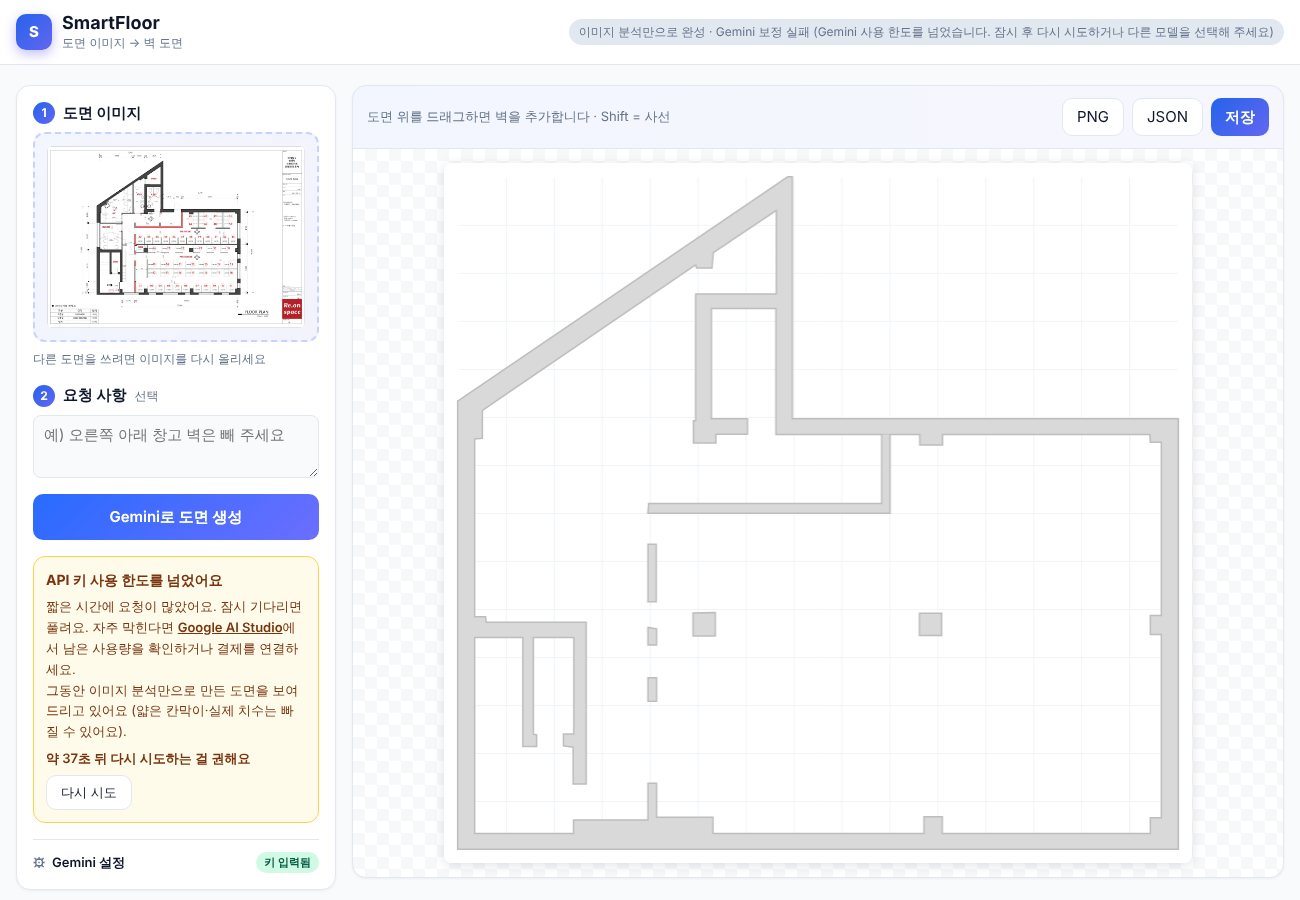
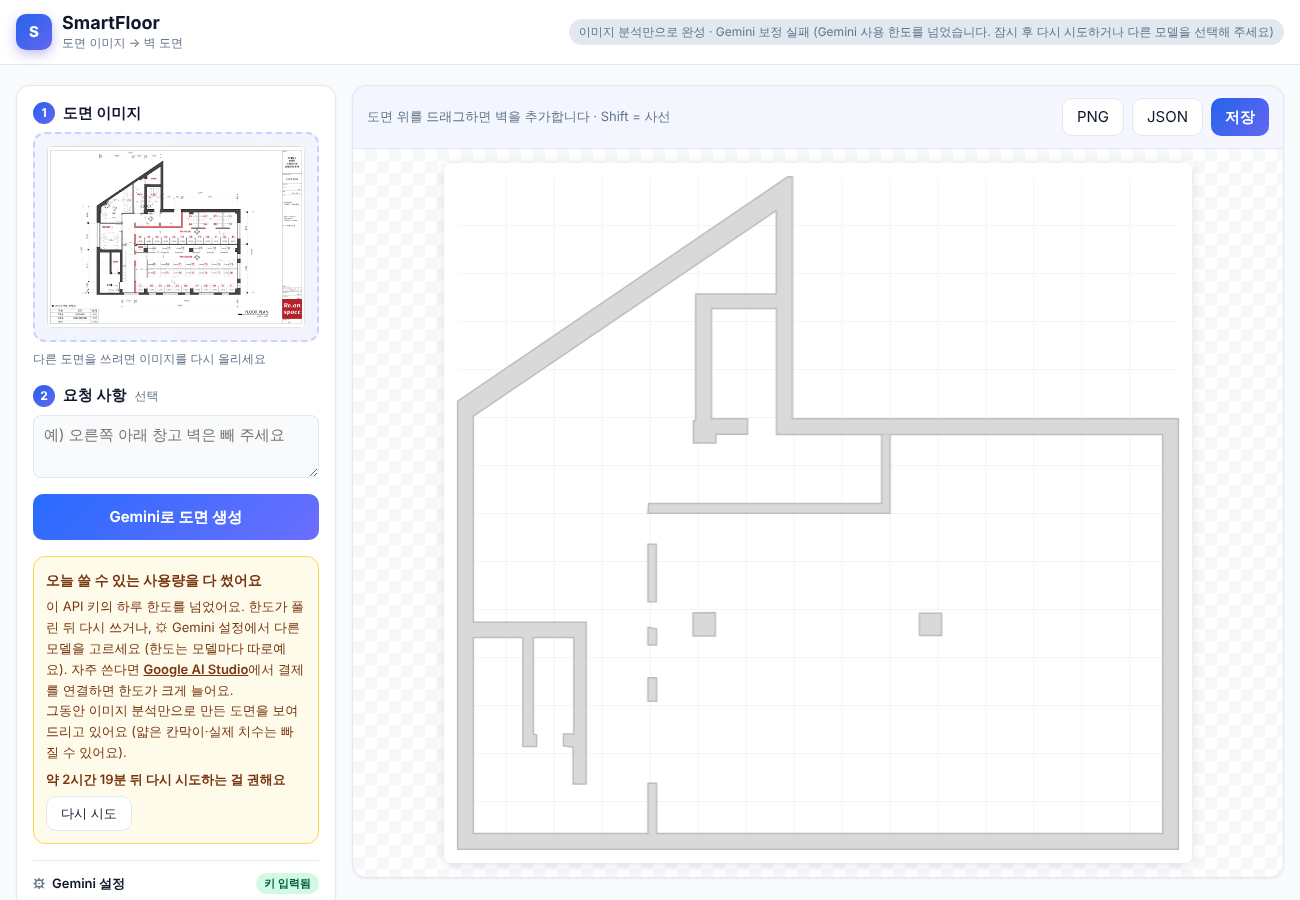
연회색 벽 도면 인식, 이미지 가장자리 벽 깎임 수정
- 벽 색을 도면에서 자동으로 고름: 밝기 봉우리별로 가장 넓게 이어진 덩어리를 만드는 색
  (예전에는 진한 벽만 인식해 #D9D9D9 처럼 연한 벽 도면에서 벽을 하나도 못 찾았다)
- 외벽 닫기의 닫힘 연산에서 이미지 바깥을 빈 곳으로 봐 가장자리 가까운 벽이 깎이고
  건물 안이 바깥으로 판정되던 문제 수정
- 긴 대기 시간을 시간·분으로 표시, 10분 넘게 기다려야 하면 하루 한도로 안내

Claude-Session: https://claude.ai/code/session_019BR6bcJC9afvqNNWC6GPKG

diff --git a/gemini.js b/gemini.js
@@ -148,24 +148,48 @@ async function readPixels(dataURL) {
   return { W: im.width, H: im.height, d: g.getImageData(0, 0, im.width, im.height).data };
 }
 
-// raw: 진한 무채색 또는 빨간색 픽셀 (벽·칸막이 후보, 글자·선 포함), light: 연한 회색 선까지 포함
+// 벽 색 고르기: 도면마다 벽 색이 다르다 (검게 칠한 CAD 도면, 연회색 #D9D9D9 로 칠한 디자인 도면 등).
+// 무채색 밝기 분포의 봉우리마다 그 밝기의 두꺼운 픽셀을 모아 보고, 가장 크게 이어진 덩어리가
+// 가장 넓은 범위를 감싸는 밝기를 벽 색으로 고른다 (벽은 건물을 감싸는 하나의 그물, 좌석은 흩어진 작은 상자)
+// 반환: { dark: true } (진한 벽 + 빨간 칸막이) 또는 { dark: false, lo, hi } (그 밝기 범위)
+function pickWallTone({ W, H, d }) {
+  const f = 4, w = Math.floor(W / f), h = Math.floor(H / f), av = new Uint8Array(w * h), gray = new Uint8Array(w * h), red = new Uint8Array(w * h);
+  for (let y = 0; y < h; y++) for (let x = 0; x < w; x++) { // 1/4 로 줄여서 빠르게
+    const k = 4 * ((y * f + 2) * W + x * f + 2), r = d[k], g = d[k + 1], b = d[k + 2], i = y * w + x;
+    av[i] = (r + g + b) / 3; gray[i] = Math.max(r, g, b) - Math.min(r, g, b) < 40 && av[i] < 245 ? 1 : 0;
+    red[i] = r > 150 && r - g > 45 && r - b > 45 ? 1 : 0;
+  }
+  const hist = new Float64Array(32);
+  for (let i = 0; i < w * h; i++) if (gray[i]) hist[av[i] >> 3]++;
+  const cands = [{ dark: true }];
+  for (let k = 18; k < 31; k++) // 밝은 쪽 봉우리 (144 이상): 전체의 0.5% 넘게 차지하는 밝기
+    if (hist[k] > w * h * 0.005 && hist[k] >= hist[k - 1] && hist[k] >= hist[k + 1]) cands.push({ dark: false, lo: k * 8 - 18, hi: k * 8 + 26 });
+  let best = cands[0], bestScore = -1;
+  for (const c of cands) {
+    const m = new Uint8Array(w * h);
+    for (let i = 0; i < w * h; i++) m[i] = c.dark ? ((gray[i] && av[i] < 140) || red[i] ? 1 : 0) : (gray[i] && av[i] >= c.lo && av[i] <= c.hi ? 1 : 0);
+    const { list } = components(morph(morph(m, w, h, 1, true), w, h, 1, false), w, h);
+    const score = Math.max(0, ...list.map(q => (q.x1 - q.x0 + 1) * (q.y1 - q.y0 + 1)));
+    if (score > bestScore) { bestScore = score; best = c; }
+  }
+  return best;
+}
+
+// raw: 벽 색 픽셀 (벽·칸막이 후보, 같은 색 글자·선 포함), light: 연한 회색 선까지 포함 (창문 선 확인용)
 // wall: raw 에서 5px 보다 얇은 것(치수선·글자·집기 선)을 지운 것 = 칠해진 벽
-function wallMasks({ W, H, d }) {
-  const raw = new Uint8Array(W * H);
+function wallMasks(P) {
+  const { W, H, d } = P, tone = pickWallTone(P), raw = new Uint8Array(W * H), light = new Uint8Array(W * H);
   for (let i = 0; i < W * H; i++) {
     const r = d[4 * i], g = d[4 * i + 1], b = d[4 * i + 2], av = (r + g + b) / 3, ch = Math.max(r, g, b) - Math.min(r, g, b);
-    raw[i] = (av < 140 && ch < 50) || (r > 150 && r - g > 45 && r - b > 45) ? 1 : 0;
+    raw[i] = tone.dark ? ((av < 140 && ch < 50) || (r > 150 && r - g > 45 && r - b > 45) ? 1 : 0) : (ch < 40 && av >= tone.lo && av <= tone.hi ? 1 : 0);
+    light[i] = raw[i] || (av < 200 && ch < 50) ? 1 : 0;
   }
-  const light = new Uint8Array(W * H); // 연한 회색 선까지 (창문 선 확인용)
-  for (let i = 0; i < W * H; i++) {
-    const r = d[4 * i], g = d[4 * i + 1], b = d[4 * i + 2];
-    light[i] = raw[i] || ((r + g + b) / 3 < 200 && Math.max(r, g, b) - Math.min(r, g, b) < 50) ? 1 : 0;
-  }
-  return { W, H, raw, light, wall: morph(morph(raw, W, H, 2, true), W, H, 2, false) };
+  return { W, H, raw, light, tone, wall: morph(morph(raw, W, H, 2, true), W, H, 2, false) };
 }
 
 // 정사각형(2r+1) 침식/팽창. 가로·세로로 나눠 창 안의 1 개수를 세서 빠르게 계산
-function morph(m, W, H, r, erode) {
+// edgeFilled: 침식할 때 이미지 바깥을 채워진 것으로 본다 (닫힘 연산에서 이미지 가장자리 가까운 벽이 깎이지 않게)
+function morph(m, W, H, r, erode, edgeFilled = false) {
   const pass = (src, len, count, at) => {
     const out = new Uint8Array(W * H), k = 2 * r + 1;
     for (let a = 0; a < count; a++) {
@@ -173,7 +197,8 @@ function morph(m, W, H, r, erode) {
       for (let b = -r; b < len + r; b++) {
         if (b + r < len) s += src[at(a, b + r)]; // 창 오른쪽 끝 추가
         if (b - r - 1 >= 0) s -= src[at(a, b - r - 1)]; // 창 왼쪽 끝 제거
-        if (b >= 0 && b < len) out[at(a, b)] = erode ? (s === k ? 1 : 0) : (s > 0 ? 1 : 0);
+        const need = edgeFilled ? Math.min(b + r, len - 1) - Math.max(b - r, 0) + 1 : k; // 창 안에서 이미지 안쪽 칸 수
+        if (b >= 0 && b < len) out[at(a, b)] = erode ? (s === need ? 1 : 0) : (s > 0 ? 1 : 0);
       }
     }
     return out;
@@ -362,7 +387,7 @@ function bridgeWindows(K, light, W, H) {
 // · 외벽 두께: 윤곽에서 안쪽으로 1px 씩 들어가며, 원래 벽이 덮는 비율이 바깥 몇 겹의 절반 아래로 떨어지기 직전까지
 function closeExterior(K, W, H) {
   const S = Math.max(W, H), r = Math.round(S * 0.05), N = W * H;
-  const closed = morph(morph(K, W, H, r, false), W, H, r, true);
+  const closed = morph(morph(K, W, H, r, false), W, H, r, true, true);
   const F = new Uint8Array(N).fill(1), st = new Int32Array(N); let sp = 0;
   const push = i => { if (F[i] && !closed[i]) { F[i] = 0; st[sp++] = i; } };
   for (let x = 0; x < W; x++) { push(x); push((H - 1) * W + x); }
@@ -552,7 +577,7 @@ function apiError(status, m, model, details = []) {
   err.kind = quota ? 'quota' : busy ? 'busy' : '';
   const delay = (details || []).map(d => d && d.retryDelay).find(Boolean); // 예: "37s"
   if (delay) err.retryAfter = Math.ceil(parseFloat(delay));
-  err.daily = quota && /per ?day/i.test(JSON.stringify(details || []) + m); // 하루 한도인지
+  err.daily = quota && (/per ?day/i.test(JSON.stringify(details || []) + m) || err.retryAfter > 600); // 하루 한도인지 (10분 넘게 기다려야 하면 사실상 하루 한도)
   // 단종·미지원 모델이면 Google 이 안내하는 대체 모델을 함께 넘긴다
   if (/no longer available|not found|not supported/i.test(m)) err.suggest = (String(m).match(/models\/(gemini-[\w.-]+)/g) || []).map(x => x.slice(7).replace(/\.+$/, '')).find(x => x !== model) || DEFAULT_MODEL;
   return err;

diff --git a/app.js b/app.js
@@ -72,7 +72,7 @@ function showNotice(err, partial) {
   const N = {
     busy: ['Google Gemini 서버가 붐벼요', '내 키나 설정 문제가 아니라 Google 쪽이 잠시 바쁜 거예요. 조금 뒤 다시 시도하면 대부분 풀려요. 계속되면 ⚙ Gemini 설정에서 다른 모델을 골라 보세요.', 60],
     quota: err.daily
-      ? ['오늘 쓸 수 있는 사용량을 다 썼어요', `이 API 키의 하루 한도를 넘었어요. 내일 다시 쓰거나, ⚙ Gemini 설정에서 다른 모델을 고르세요 (한도는 모델마다 따로예요). 자주 쓴다면 ${AI_STUDIO}에서 결제를 연결하면 한도가 크게 늘어요.`, 0]
+      ? ['오늘 쓸 수 있는 사용량을 다 썼어요', `이 API 키의 하루 한도를 넘었어요. 한도가 풀린 뒤 다시 쓰거나, ⚙ Gemini 설정에서 다른 모델을 고르세요 (한도는 모델마다 따로예요). 자주 쓴다면 ${AI_STUDIO}에서 결제를 연결하면 한도가 크게 늘어요.`, 0]
       : ['API 키 사용 한도를 넘었어요', `짧은 시간에 요청이 많았어요. 잠시 기다리면 풀려요. 자주 막힌다면 ${AI_STUDIO}에서 남은 사용량을 확인하거나 결제를 연결하세요.`, 60],
     timeout: ['Gemini 응답이 너무 오래 걸렸어요', '도면이 복잡하거나 Google 쪽이 바쁠 때 생겨요. 잠시 뒤 다시 시도해 보세요.', 30]
   }[err.kind];
@@ -83,7 +83,8 @@ function showNotice(err, partial) {
   let left = err.retryAfter || def;
   clearInterval(noticeTimer);
   const tickWait = () => {
-    $('notice-wait').textContent = err.daily && !err.retryAfter ? '' : left > 0 ? `약 ${left}초 뒤 다시 시도하는 걸 권해요` : '지금 다시 시도할 수 있어요';
+    const t = left >= 3600 ? `${Math.floor(left / 3600)}시간 ${Math.floor(left % 3600 / 60)}분` : left >= 60 ? `${Math.floor(left / 60)}분 ${left % 60}초` : `${left}초`;
+    $('notice-wait').textContent = err.daily && !err.retryAfter ? '' : left > 0 ? `약 ${t} 뒤 다시 시도하는 걸 권해요` : '지금 다시 시도할 수 있어요';
     if (left-- <= 0) clearInterval(noticeTimer);
   };
   tickWait(); noticeTimer = setInterval(tickWait, 1000);

diff --git a/tools/real-run.js b/tools/real-run.js
@@ -35,8 +35,8 @@ const log = (...a) => { const t = a.join(' '); console.log(t); fs.appendFileSync
 
   if (!KEY) { // Gemini 없이 미리보기만
     const t0 = Date.now();
-    const plan = await p.evaluate(async () => { const px = wallMasks(await readPixels(image)); const pl = traceToPlan(autoExtent(px), px); show(pl); return pl; });
-    log('미리보기만 (키 없음):', Date.now() - t0, 'ms · 벽 모양', plan.shapes.length, '· 크기', plan.width, 'x', plan.height);
+    const plan = await p.evaluate(async () => { const px = wallMasks(await readPixels(image)); const pl = traceToPlan(autoExtent(px), px); show(pl); return { ...pl, tone: px.tone }; });
+    log('미리보기만 (키 없음):', Date.now() - t0, 'ms · 벽 색', JSON.stringify(plan.tone), '· 벽 모양', plan.shapes.length, '· 크기', plan.width, 'x', plan.height);
     await p.locator('canvas').screenshot({ path: path.join(outDir, 'preview.png') });
     fs.writeFileSync(path.join(outDir, 'plan.json'), JSON.stringify(plan));
     return b.close();

diff --git a/index.html b/index.html
@@ -4,7 +4,7 @@
   <meta charset="UTF-8">
   <meta name="viewport" content="width=device-width, initial-scale=1">
   <title>SmartFloor</title>
-  <link rel="stylesheet" href="style.css?v=8">
+  <link rel="stylesheet" href="style.css?v=9">
 </head>
 <body>
   <header class="top">
@@ -77,7 +77,7 @@
   </main>
 
   <!-- ?v= 는 배포할 때마다 올린다 (브라우저가 예전 파일을 쓰지 않게) -->
-  <script src="gemini.js?v=8"></script>
-  <script src="app.js?v=8"></script>
+  <script src="gemini.js?v=9"></script>
+  <script src="app.js?v=9"></script>
 </body>
 </html>
